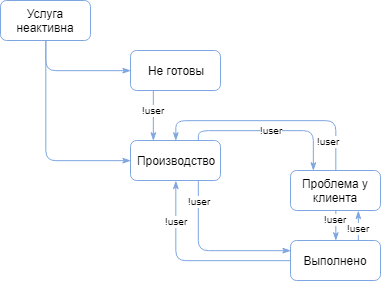
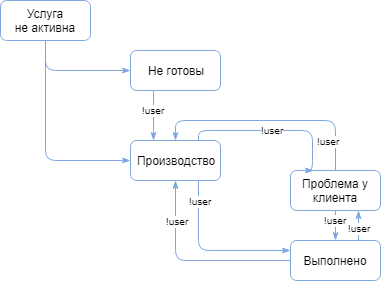
Updates usingCRM/importToGIS.md
Auto commit by GitBook Editor

diff --git a/usingCRM/importToGIS.md b/usingCRM/importToGIS.md
@@ -16,3 +16,9 @@
 * на вкладке «Производство» выбрать необходимую услугу и нажать кнопку «Активировать услугу».
 
 По умолчанию все не активные услуги находятся в статусе «Услуга не активна». После активации услуга переходит в статус «Не готовы» или «Производство». Подробнее о статусах услуг написано в разделе [«Статусы»](../leads/leadInfo.md#leadInfo-statuses).
+
+Каждая услуга описывается несколькими блоками:
+* данные по услуге;
+* смена статуса;
+* история оказания услуги;
+* действия.
